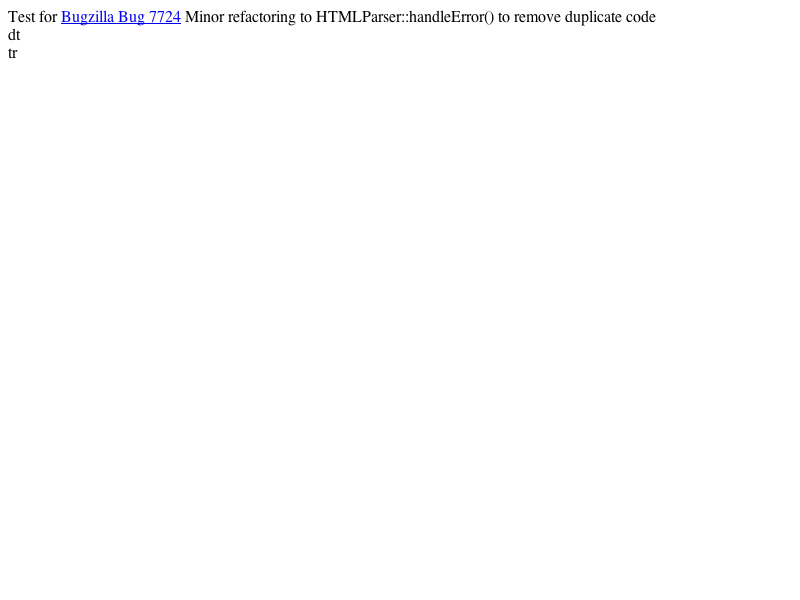
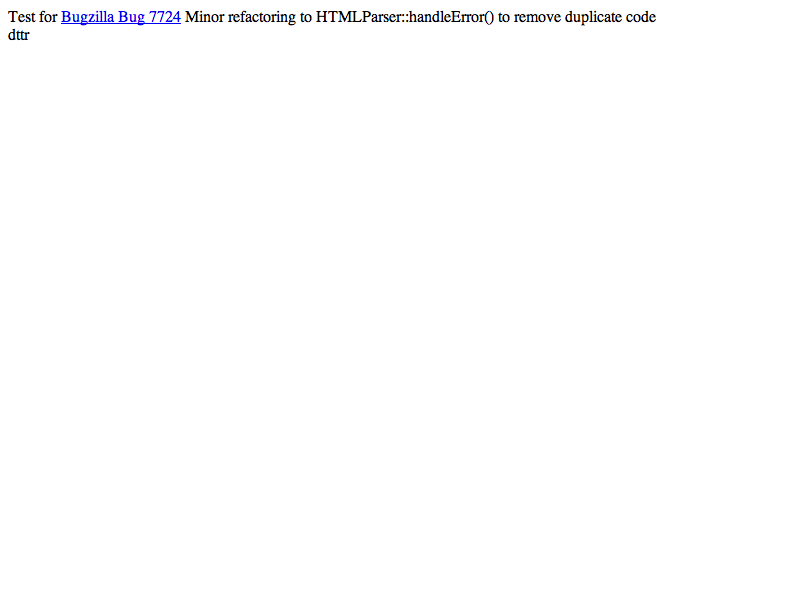
2008-09-02  Robert Blaut  <webkit@blaut.biz>
Reviewed by Geoff Garen.

        Fix for <https://bugs.webkit.org/show_bug.cgi?id=16913>
        Misplaced elements should not close DL lists.

        Test: fast/invalid/test-case-tr-th-td-should-not-close-dl-list.html

        * html/HTMLParser.cpp:
        (WebCore::HTMLParser::handleError):

2008-09-02  Robert Blaut  <webkit@blaut.biz>

        Reviewed by Geoff Garen.

        Test for <https://bugs.webkit.org/show_bug.cgi?id=16913>
        Misplaced elements should not close DL lists.

        * fast/invalid/test-case-tr-th-td-should-not-close-dl-list-expected.txt: Added.
        * fast/invalid/test-case-tr-th-td-should-not-close-dl-list.html: Added.
        * platform/mac/fast/invalid/missing-dl-end-tag-expected.checksum:
        * platform/mac/fast/invalid/missing-dl-end-tag-expected.png:
        * platform/mac/fast/invalid/missing-dl-end-tag-expected.txt:
        * platform/mac/fast/invalid/missing-dt-end-tag-expected.checksum:
        * platform/mac/fast/invalid/missing-dt-end-tag-expected.png:
        * platform/mac/fast/invalid/missing-dt-end-tag-expected.txt:

git-svn-id: http://svn.webkit.org/repository/webkit/trunk/LayoutTests@36051 268f45cc-cd09-0410-ab3c-d52691b4dbfc

Changed region(s): [[0.0, 0.0, 0.8125, 0.09]]

diff --git a/fast/invalid/test-case-tr-th-td-should-not-close-dl-list.html b/fast/invalid/test-case-tr-th-td-should-not-close-dl-list.html
@@ -1,0 +1,27 @@
+<!doctype html>
+<html>
+<script>
+     if (window.layoutTestController)
+         layoutTestController.dumpAsText();
+</script>
+<style type="text/css">
+    dt > p, dl > p { background-color: lime; outline: 1px solid lime; }
+</style>
+<body>
+<p>Test for <a href="https://bugs.webkit.org/show_bug.cgi?id=16913">bug 16913</a>:
+TR, TH, TD elements incorrectly closes DL list</p>
+<p>There should be two green bars below.</p>
+
+<dt><tr><p>test
+<dl><tr><p>test
+<script>
+for (var i = 2; i <= 3; i++) {
+    var x = document.getElementsByTagName("p")[i];
+
+    if (document.defaultView.getComputedStyle(x, null).getPropertyValue("outline-style") == "solid")
+        document.write("<div>PASSED.</div>");
+    else
+        document.write("<div>FAILED.</div>");
+}
+</script>
+</html>
